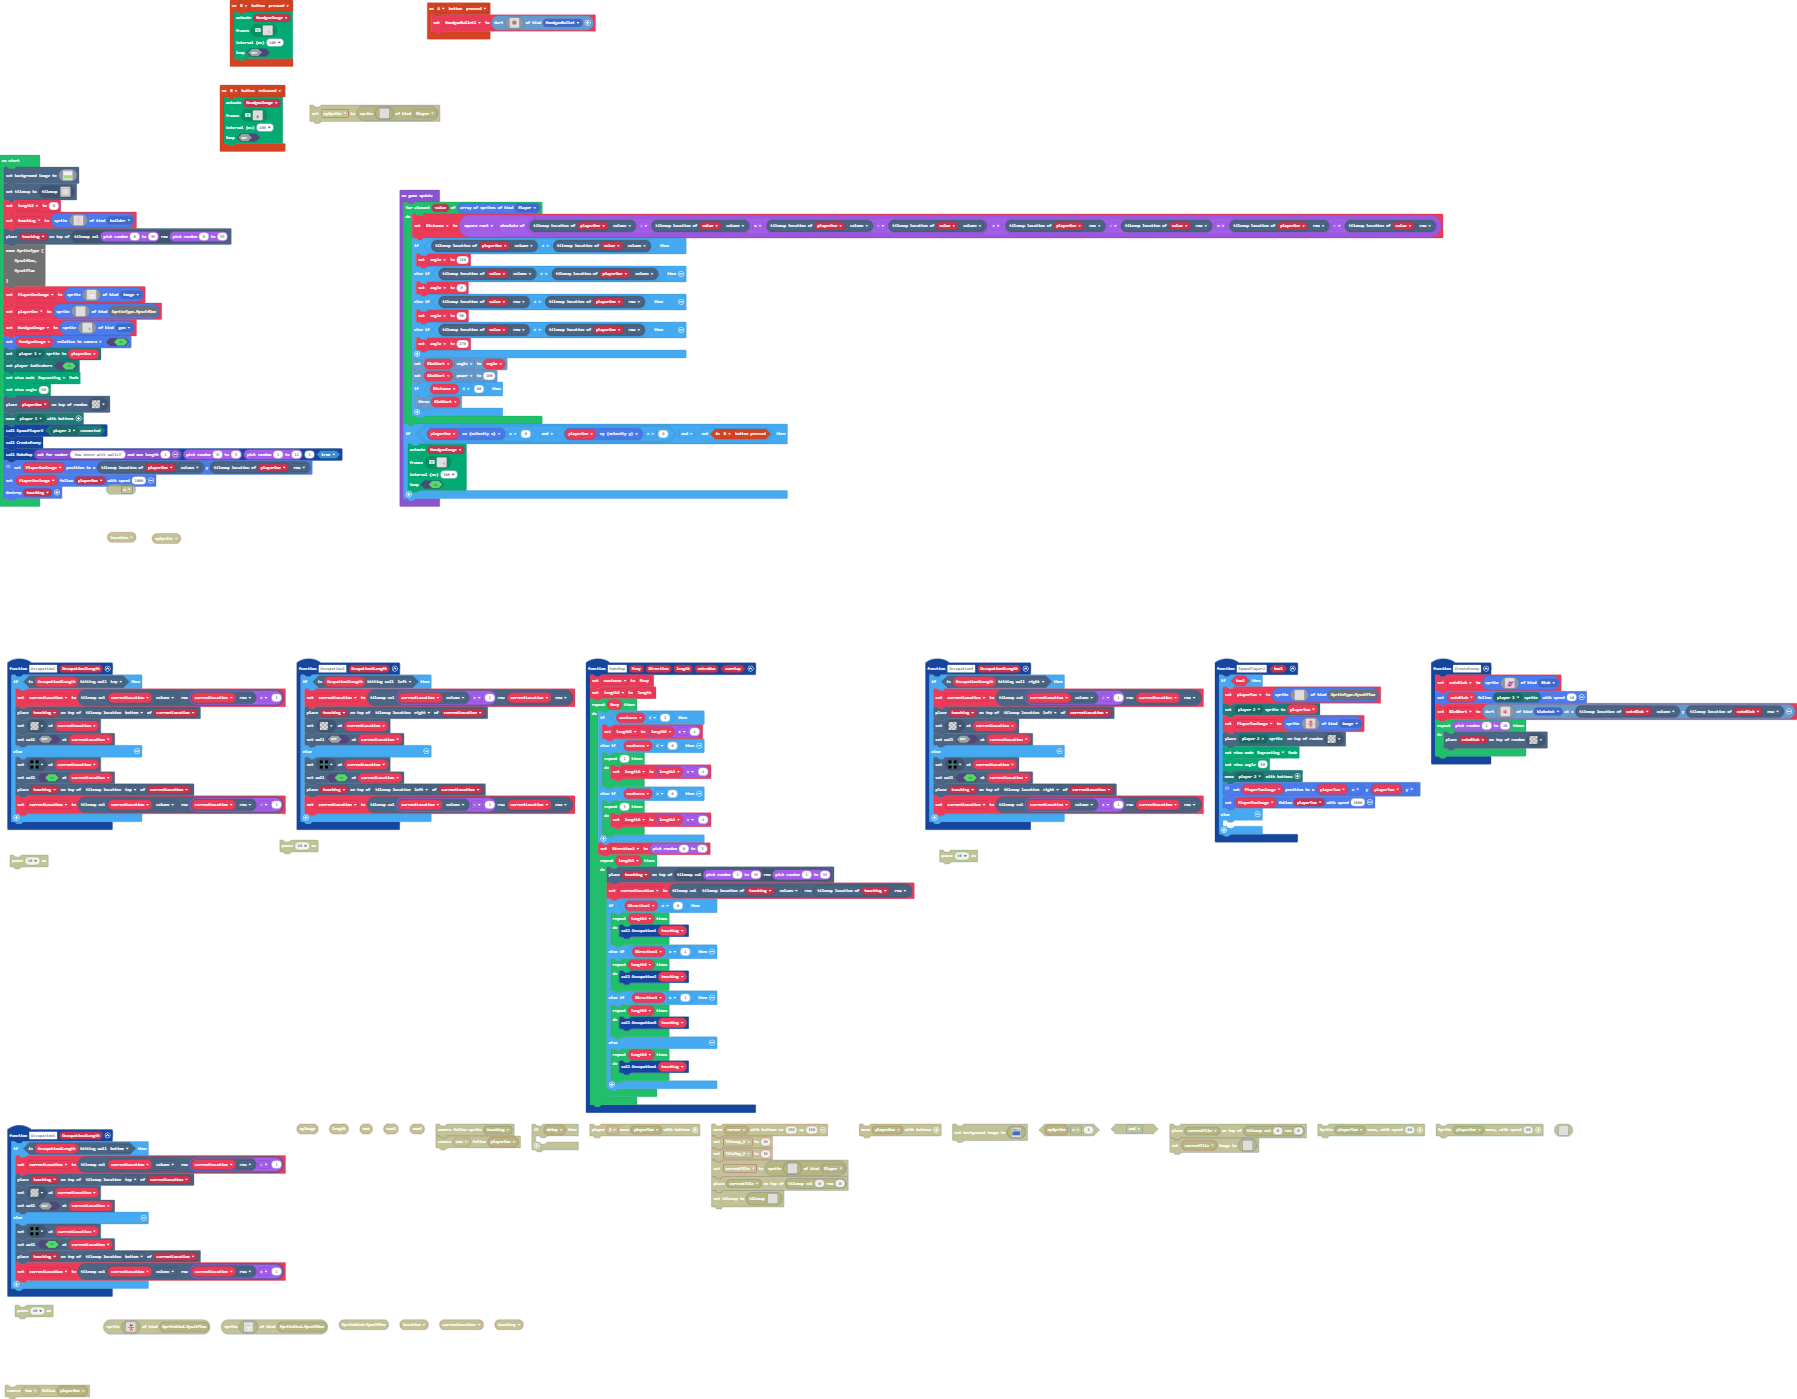
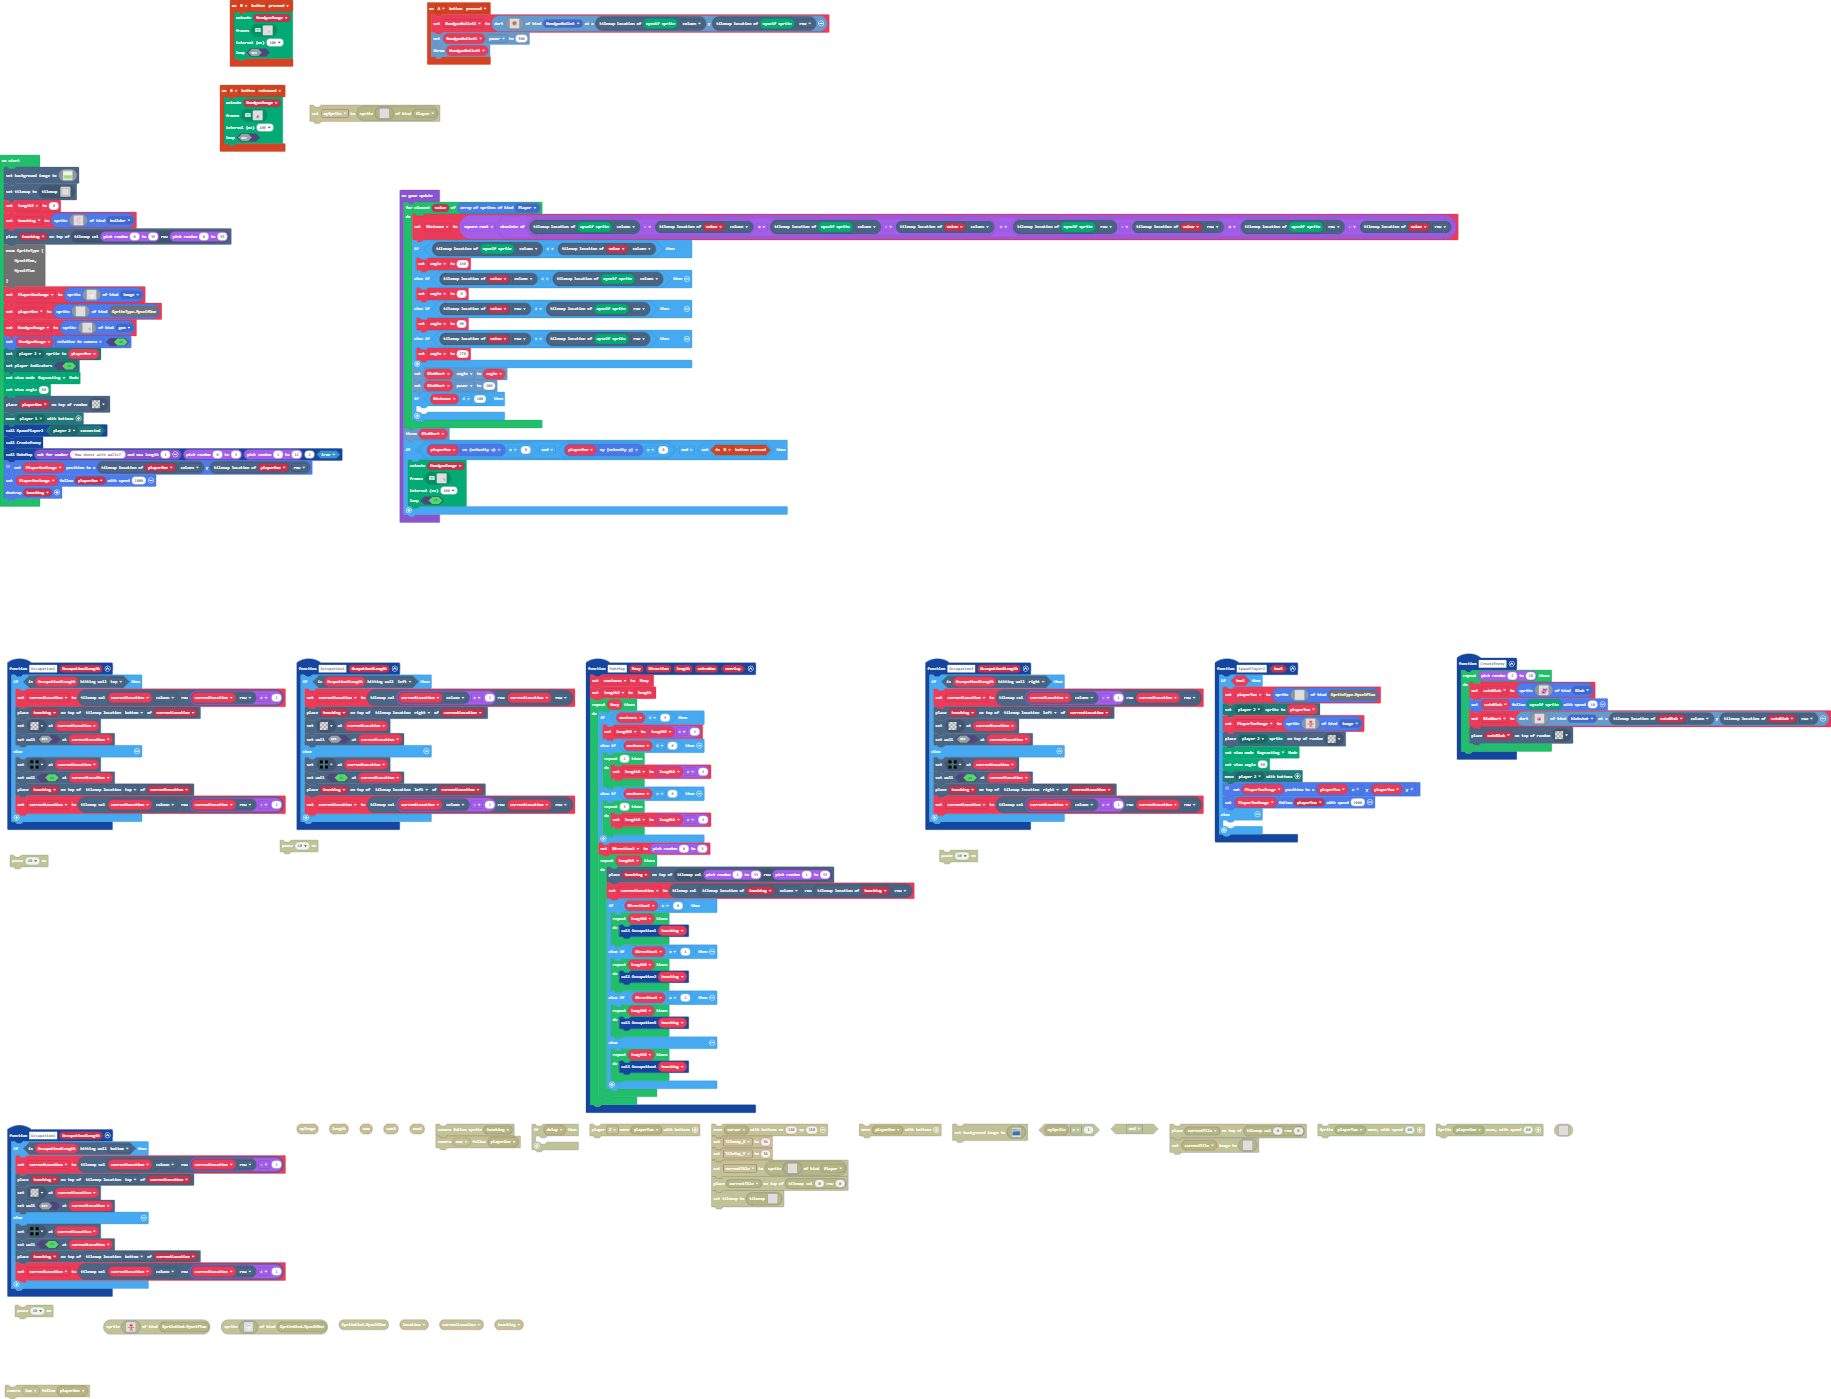
Update main.blocks, main.ts

diff --git a/main.ts b/main.ts
@@ -633,7 +633,9 @@ controller.A.onEvent(ControllerButtonEvent.Pressed, function () {
         ................................................................................................................................................................
         ................................................................................................................................................................
         ................................................................................................................................................................
-        `, SpriteKind.HandgunBullet)
+        `, SpriteKind.HandgunBullet, Render.getRenderSpriteInstance().tilemapLocation().column, Render.getRenderSpriteInstance().tilemapLocation().row)
+    HandgunBullet2.pow = 500
+    HandgunBullet2.throwDart()
 })
 function Occupation1 (Ocupation1Length: Sprite) {
     if (Ocupation1Length.isHittingTile(CollisionDirection.Left)) {
@@ -1256,44 +1258,44 @@ function SpawnPlayer2 (bool: boolean) {
     }
 }
 function CreateEnemy () {
-    cuteBlob = sprites.create(img`
-        . . . . . . . . . . . . . . . . 
-        . . . . . . . . . . . . . . . . 
-        . . . . . . . . . . . . . . . . 
-        . . . . . . . . . . . . . . . . 
-        . . . . . . . . . . . . . . . . 
-        . . . . . . a a a . . . a a a . 
-        . . . . . . a . a a . a a . a . 
-        . . . . . . a a a a a a a a a . 
-        . . . . . . 3 a a 3 a 3 3 . . . 
-        . . . . . a a 3 3 3 a a a . . . 
-        . . . 3 3 a 3 f 3 3 3 3 a . . . 
-        . . 3 3 3 3 3 3 3 3 f 3 3 . . . 
-        . . 3 3 3 3 f 3 f 3 3 3 3 . . . 
-        . . 3 3 3 3 f f f 3 3 3 3 . . . 
-        . . 3 3 3 3 3 3 3 3 3 3 . . . . 
-        . . 3 3 3 3 3 3 3 3 3 3 . . . . 
-        `, SpriteKind.Blob)
-    cuteBlob.follow(mp.getPlayerSprite(mp.playerSelector(mp.PlayerNumber.One)), 40)
-    BlobDart = darts.create(img`
-        . . . . . . . . . . . . . . . . 
-        . . . . . . . . . . . . . . . . 
-        . . . . . 1 1 1 1 1 . . . . . . 
-        . . . . 1 3 3 3 3 3 1 . . . . . 
-        . . . 1 3 3 3 3 3 3 3 1 . . . . 
-        . . 1 3 3 1 3 3 3 1 3 3 1 . . . 
-        . . 1 3 3 3 3 3 3 3 3 3 1 . . . 
-        . . 1 3 3 3 3 3 3 3 3 3 1 . . . 
-        . . 1 3 1 f 3 3 3 f 1 3 1 . . . 
-        . . 1 3 3 f f 3 f f 3 3 1 . . . 
-        . . . 1 3 3 f 1 f 3 3 1 . . . . 
-        . . . . 1 3 3 3 3 3 1 . . . . . 
-        . . . . . 1 1 1 1 1 . . . . . . 
-        . . . . . . . . . . . . . . . . 
-        . . . . . . . . . . . . . . . . 
-        . . . . . . . . . . . . . . . . 
-        `, SpriteKind.blobshot, cuteBlob.tilemapLocation().column, cuteBlob.tilemapLocation().row)
     for (let index = 0; index < randint(2, 20); index++) {
+        cuteBlob = sprites.create(img`
+            . . . . . . . . . . . . . . . . 
+            . . . . . . . . . . . . . . . . 
+            . . . . . . . . . . . . . . . . 
+            . . . . . . . . . . . . . . . . 
+            . . . . . . . . . . . . . . . . 
+            . . . . . . a a a . . . a a a . 
+            . . . . . . a . a a . a a . a . 
+            . . . . . . a a a a a a a a a . 
+            . . . . . . 3 a a 3 a 3 3 . . . 
+            . . . . . a a 3 3 3 a a a . . . 
+            . . . 3 3 a 3 f 3 3 3 3 a . . . 
+            . . 3 3 3 3 3 3 3 3 f 3 3 . . . 
+            . . 3 3 3 3 f 3 f 3 3 3 3 . . . 
+            . . 3 3 3 3 f f f 3 3 3 3 . . . 
+            . . 3 3 3 3 3 3 3 3 3 3 . . . . 
+            . . 3 3 3 3 3 3 3 3 3 3 . . . . 
+            `, SpriteKind.Blob)
+        cuteBlob.follow(Render.getRenderSpriteVariable(), 40)
+        BlobDart = darts.create(img`
+            . . . . . . . . . . . . . . . . 
+            . . . . . . . . . . . . . . . . 
+            . . . . . 1 1 1 1 1 . . . . . . 
+            . . . . 1 3 3 3 3 3 1 . . . . . 
+            . . . 1 3 3 3 3 3 3 3 1 . . . . 
+            . . 1 3 3 1 3 3 3 1 3 3 1 . . . 
+            . . 1 3 3 3 3 3 3 3 3 3 1 . . . 
+            . . 1 3 3 3 3 3 3 3 3 3 1 . . . 
+            . . 1 3 1 f 3 3 3 f 1 3 1 . . . 
+            . . 1 3 3 f f 3 f f 3 3 1 . . . 
+            . . . 1 3 3 f 1 f 3 3 1 . . . . 
+            . . . . 1 3 3 3 3 3 1 . . . . . 
+            . . . . . 1 1 1 1 1 . . . . . . 
+            . . . . . . . . . . . . . . . . 
+            . . . . . . . . . . . . . . . . 
+            . . . . . . . . . . . . . . . . 
+            `, SpriteKind.blobshot, cuteBlob.tilemapLocation().column, cuteBlob.tilemapLocation().row)
         tiles.placeOnRandomTile(cuteBlob, assets.tile`transparency16`)
     }
 }
@@ -1632,22 +1634,23 @@ PlayerOneImage.follow(playerOne, 1000)
 sprites.destroy(touching)
 game.onUpdate(function () {
     for (let value of sprites.allOfKind(SpriteKind.Player)) {
-        Distance = Math.sqrt(Math.abs((playerOne.tilemapLocation().column - value.tilemapLocation().column) * (playerOne.tilemapLocation().column - value.tilemapLocation().column) + (playerOne.tilemapLocation().row - value.tilemapLocation().row) * (playerOne.tilemapLocation().row - value.tilemapLocation().row)))
-        if (playerOne.tilemapLocation().column < value.tilemapLocation().column) {
+        Distance = Math.sqrt(Math.abs((Render.getRenderSpriteInstance().tilemapLocation().column - value.tilemapLocation().column) * (Render.getRenderSpriteInstance().tilemapLocation().column - value.tilemapLocation().column) + (Render.getRenderSpriteInstance().tilemapLocation().row - value.tilemapLocation().row) * (Render.getRenderSpriteInstance().tilemapLocation().row - value.tilemapLocation().row)))
+        if (Render.getRenderSpriteInstance().tilemapLocation().column < value.tilemapLocation().column) {
             angle = 180
-        } else if (value.tilemapLocation().column < playerOne.tilemapLocation().column) {
+        } else if (value.tilemapLocation().column < Render.getRenderSpriteInstance().tilemapLocation().column) {
             angle = 0
-        } else if (value.tilemapLocation().row < playerOne.tilemapLocation().row) {
+        } else if (value.tilemapLocation().row < Render.getRenderSpriteInstance().tilemapLocation().row) {
             angle = 90
-        } else if (value.tilemapLocation().row > playerOne.tilemapLocation().row) {
+        } else if (value.tilemapLocation().row > Render.getRenderSpriteInstance().tilemapLocation().row) {
             angle = 270
         }
         BlobDart.angle = angle
         BlobDart.pow = 100
-        if (Distance <= 80) {
-            BlobDart.throwDart()
+        if (Distance <= 100) {
+        	
         }
     }
+    BlobDart.throwDart()
     if (playerOne.vx == 0 && playerOne.vy == 0 && !(controller.B.isPressed())) {
         animation.runImageAnimation(
         HandgunImage,
